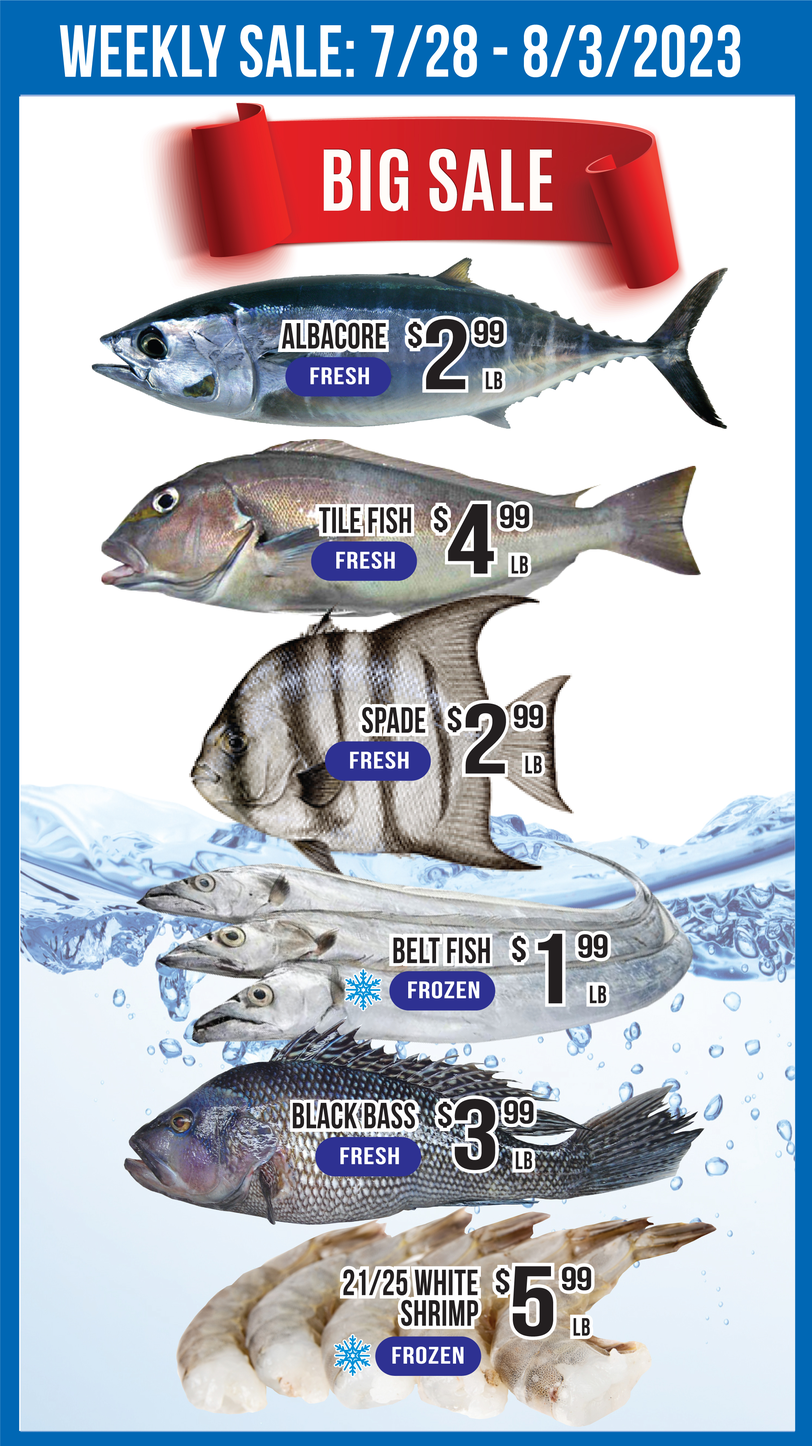
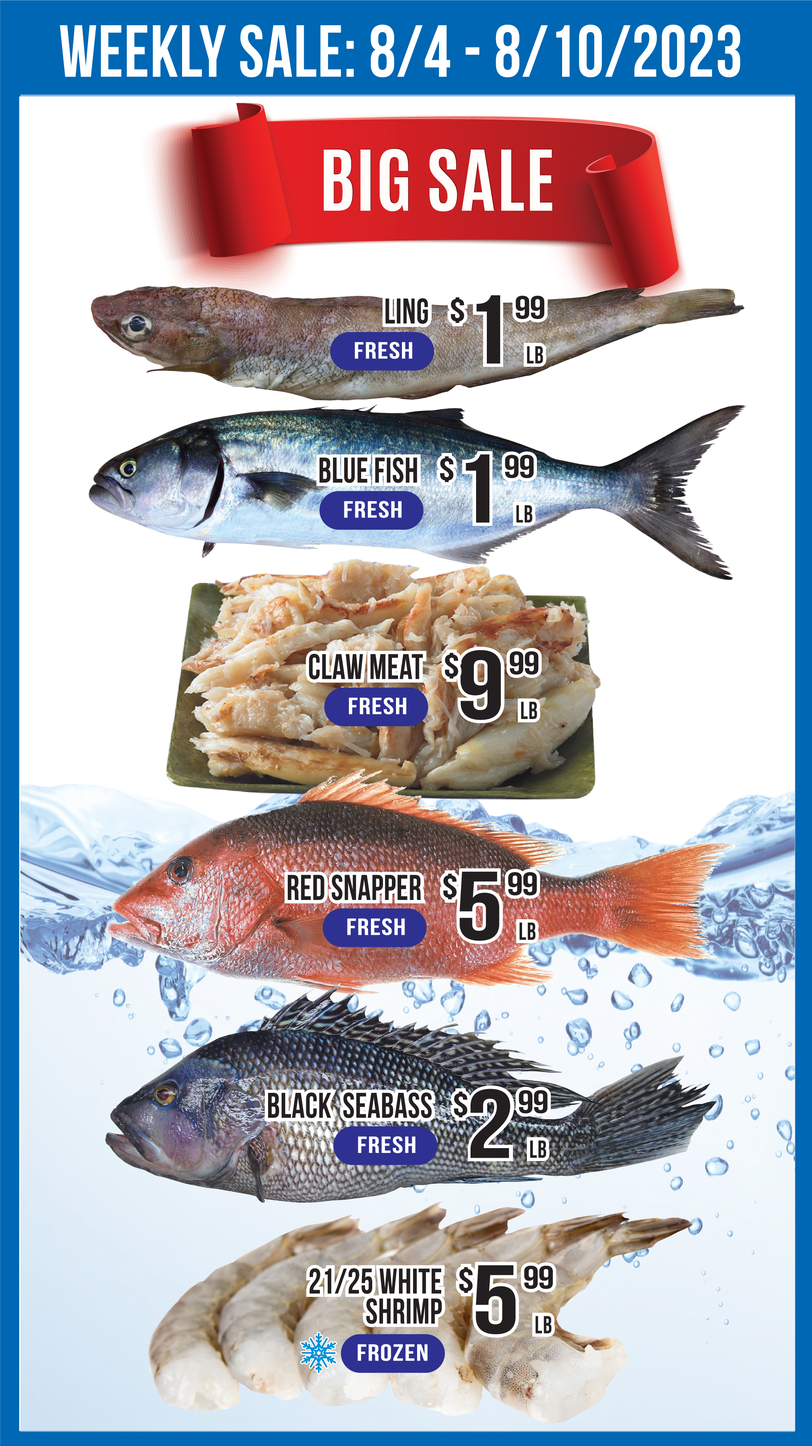
weekly specials

diff --git a/index.html b/index.html
@@ -64,16 +64,16 @@
           <img src="./public/assets/sp.jpg" class="d-block w-100 img-fluid" alt="...">
         </div> -->
         <div class="carousel-item center-carousel active">
-          <img src="./public/assets/sale/meat.jpg?v=072823" class="img-fluid" alt="...">
+          <img src="./public/assets/sale/meat.jpg?v=080323" class="img-fluid" alt="...">
         </div>
         <div class="carousel-item center-carousel">
-          <img src="./public/assets/sale/veg.jpg?v=072823" class="img-fluid" alt="...">
+          <img src="./public/assets/sale/veg.jpg?v=080323" class="img-fluid" alt="...">
         </div>
         <div class="carousel-item center-carousel">
-          <img src="./public/assets/sale/fish.jpg?v=072823" class="img-fluid" alt="...">
+          <img src="./public/assets/sale/fish.jpg?v=080323" class="img-fluid" alt="...">
         </div>
         <div class="carousel-item center-carousel">
-          <img src="./public/assets/sale/grocery.jpg?v=072823" class="img-fluid" alt="...">
+          <img src="./public/assets/sale/grocery.jpg?v=080323" class="img-fluid" alt="...">
         </div>
         <!-- <div class="carousel-item center-carousel">
           <img src="./public/assets/sale/grocery2.jpg?v=070623" class="img-fluid" alt="...">

diff --git a/deals.html b/deals.html
@@ -50,15 +50,15 @@
     <div class="row deal">
 
       <h2>English</h2>
-      <img class="img-fluid" src="./public/assets/weekly/english.jpg?v=072823">
+      <img class="img-fluid" src="./public/assets/weekly/english.jpg?v=080323">
 
       <br><br>
       <h2>Spanish</h2>
-      <img class="img-fluid" src="./public/assets/weekly/spanish.jpg?v=072823">
+      <img class="img-fluid" src="./public/assets/weekly/spanish.jpg?v=080323">
 
       <br>
       <h2>Korean</h2>
-      <img class="img-fluid" src="./public/assets/weekly/korean.jpg?v=072823">
+      <img class="img-fluid" src="./public/assets/weekly/korean.jpg?v=080323">
       <br>
       <br>
     </div>
